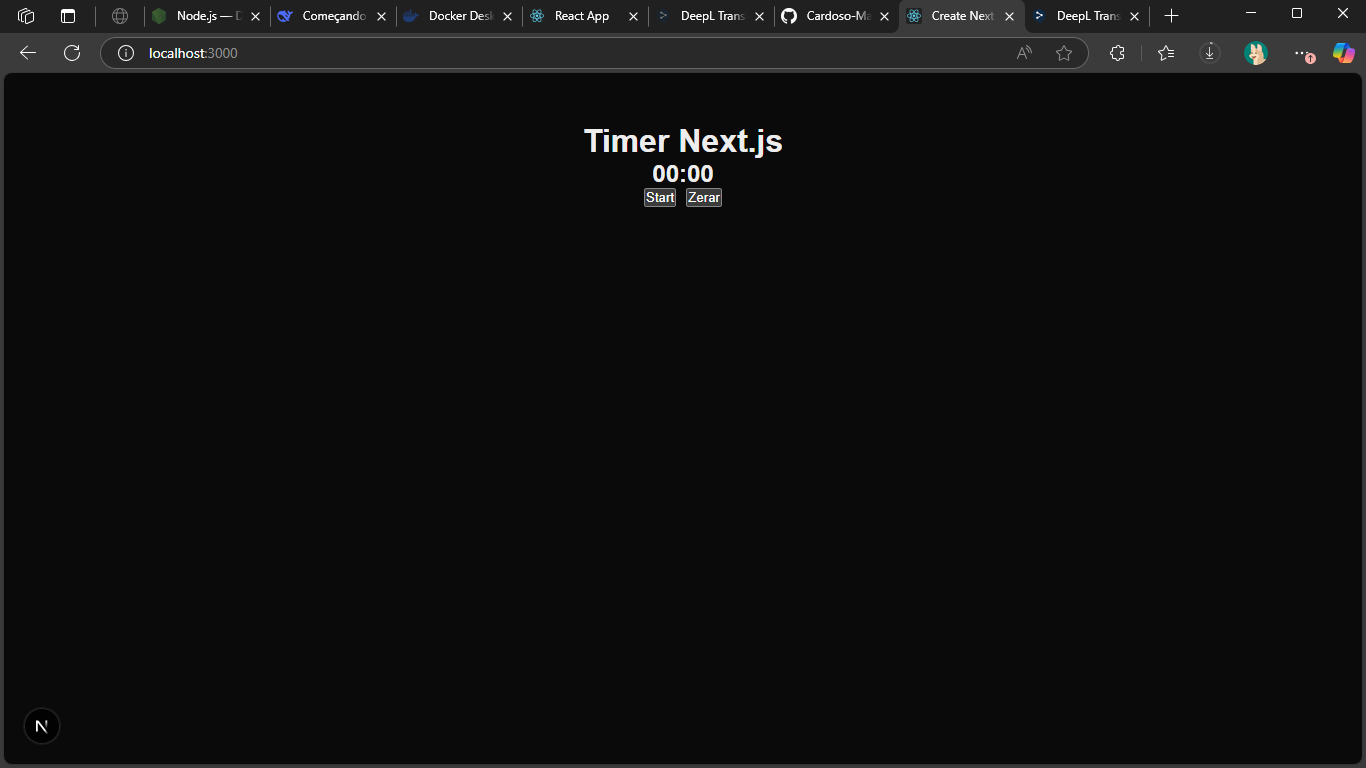
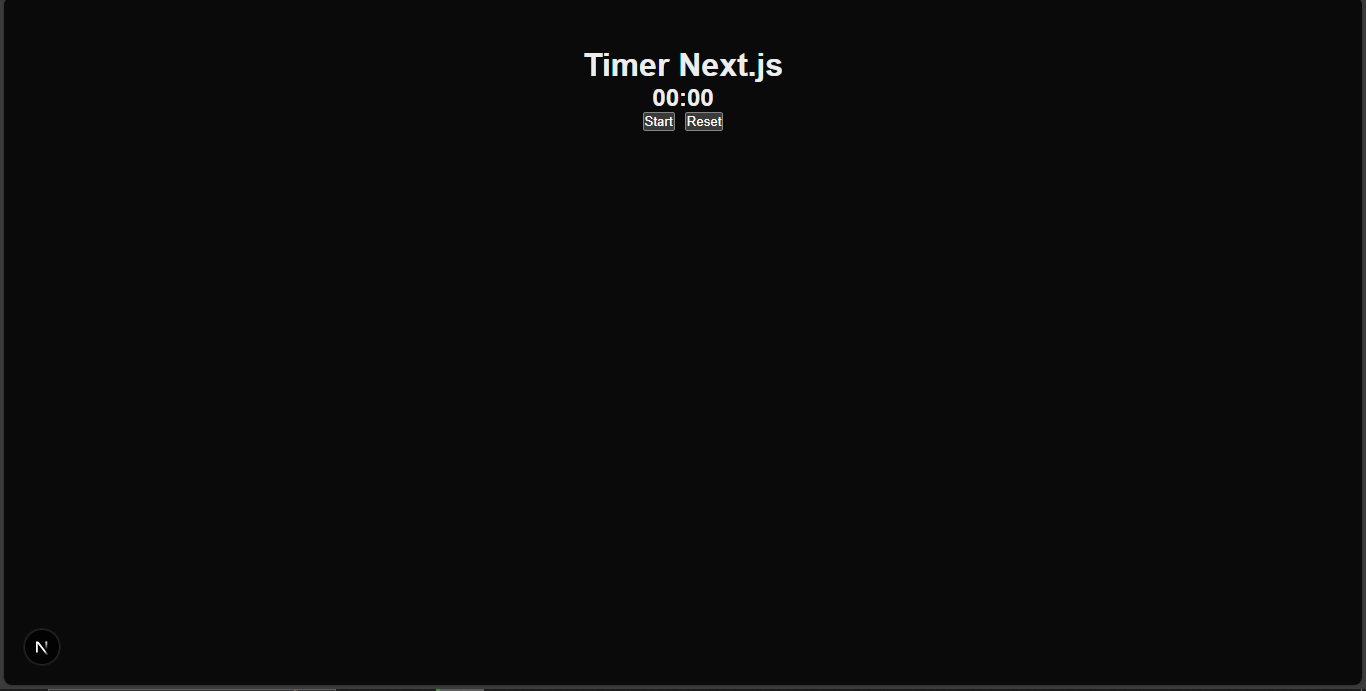
git commit -m "docs: update screenshot and rename 'Zerar' to 'Reset' in UI"

Changed region(s): [[0.0, 0.0, 1.0, 0.2735], [0.0, 0.9725, 1.0, 1.0]]

diff --git a/app/page.js b/app/page.js
@@ -31,7 +31,7 @@ export default function Timer() {
       >
         {isRunning ? 'Pause' : 'Start'}
       </button>
-      <button onClick={() => setTime(0)}>Zerar</button>
+      <button onClick={() => setTime(0)}>Reset</button>
     </div>
   );
 }
